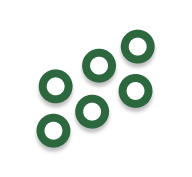
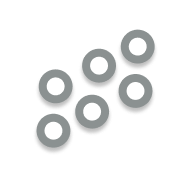
change ui color

diff --git a/components/Header.tsx b/components/Header.tsx
@@ -31,45 +31,37 @@ const Header = () => {
   }, [actualScroll, scrolling])
     
   return <header>
-            <div style={{ boxShadow: scrolling ?' 0px 8px 16px -12px #005200' : '', transition: 'all 0.5s ease-in-out'}}  className={styles.HeaderWrapper}>
+            <div style={{ boxShadow: scrolling ?' 0px 8px 16px -12px #364a5a' : '', transition: 'all 0.5s ease-in-out'}}  className={styles.HeaderWrapper}>
                 <div className={styles.containerLogo}>
                     <div className={styles.logoHeader}>
                         <Link href='/'>
                             <a>
-                            <Image src="/img/logoBodesa.svg" objectFit="contain" layout="fill" alt="logo"/>  
+                            <Image src="/img/logo_bodesa.png" objectFit="contain" layout="fill" alt="logo"/>  
                             </a>
                             
                         </Link>
                     </div> 
-                    <div className={styles.contactItem}>
-                        <div className={styles.IconCont}>
-                            <Image src="/img/cel.svg" objectFit='contain' layout='fill' alt="cel"/>
+                    <nav className={styles.navigate}>
+                        <div className={styles.itemNav}>
+                            <Link href='/' >Inicio</Link>
                         </div>
-                        <div className={styles.txtItem}>
-                            <Link href='/contactanos' >
-                                <p className={styles.txtCont}>Contáctanos</p>
-                            </Link>
+                        <div className={styles.itemNav}>
+                            <p onClick={()=>setSection(1)}>Nuestro impacto</p>
                         </div>
-                    </div> 
+                        <div className={styles.itemNav}>
+                            <p onClick={()=>setSection(2)}>Nuestras marcas</p>
+                        </div>
+                        <div className={styles.itemNav}>
+                            <Link href='/blog'>Blog</Link>
+                        </div>
+                        <div className={styles.itemNav}>
+                            <Link href='/prensa'>Prensa</Link>
+                        </div>
+                    </nav>
+                    
                 </div>
                 
-                <nav className={styles.navigate}>
-                    <div className={styles.itemNav}>
-                        <Link href='/' >Inicio</Link>
-                    </div>
-                    <div className={styles.itemNav}>
-                        <p onClick={()=>setSection(1)}>Nuestro impacto</p>
-                    </div>
-                    <div className={styles.itemNav}>
-                        <p onClick={()=>setSection(2)}>Nuestras marcas</p>
-                    </div>
-                    <div className={styles.itemNav}>
-                        <Link href='/blog'>Blog</Link>
-                    </div>
-                    <div className={styles.itemNav}>
-                        <Link href='/prensa'>Prensa</Link>
-                    </div>
-                </nav>
+               
             </div>
         </header>
 }

diff --git a/modules/Footer.tsx b/modules/Footer.tsx
@@ -6,11 +6,18 @@ const Footer = () => {
   return (
     <div className={styles.wrapperFooter}>
         <div className={styles.columnFooter}>
+            <h3 className={styles.titleSection}>Empresa</h3>
+            <p className={styles.txtFooter}>¿Quiénes somos?</p>
+            <p className={styles.txtFooter}>Nuestra Historia</p>
+            <p className={styles.txtFooter}>Principios y valores</p>
+            <p className={styles.txtFooter}>Unidades de negocio</p>
+            <p className={styles.txtFooter}>¿Quieres ser Proveedor?</p>
+            <p className={styles.txtFooter}>Prensa</p>
+        </div>
+        <div className={styles.columnFooter}>
             <h3 className={styles.titleSection}>Nuestro impacto</h3>
             <p className={styles.txtFooter}>Impacto en la comunidad</p>
             <p className={styles.txtFooter}>Sustentabilidad ambiental</p>
-            <p className={styles.txtFooter}>Prensa</p>
-            <p className={styles.txtFooter}>Integridad corporativa</p>
         </div>
         <div className={styles.columnFooter}>
             <h3 className={styles.titleSection}>Contacto</h3>
@@ -19,7 +26,7 @@ const Footer = () => {
                     <Image src="/img/mail.svg" objectFit='contain' layout='fill' alt="mail"/>
                 </div>
                 <div className={styles.txtItem}>
-                    <p className={styles.txtFooter}>info@bodesasapi.com</p>
+                    <p className={styles.txtFooter}>contactoenlinea@bodesa.com.mx</p>
                 </div>
             </div>
             <div className={styles.contactItem}>
@@ -27,7 +34,7 @@ const Footer = () => {
                     <Image src="/img/cel.svg" objectFit='contain' layout='fill' alt="cel"/>
                 </div>
                 <div className={styles.txtItem}>
-                    <p className={styles.txtFooter}>+52 55 5555 5555</p>
+                    <p className={styles.txtFooter}>+52 312 316 5300</p>
                 </div>
             </div>
             <div className={styles.contactItem}>
@@ -43,7 +50,7 @@ const Footer = () => {
         </div>
         <div className={styles.columnFooter}>
             <div className={styles.logoBodesa}>
-               <Image src="/img/LogoBodesaW.svg" objectFit='contain' layout='fill' alt="logo-footer"/> 
+               <Image src="/img/logo_bodesa.png" objectFit='contain' layout='fill' alt="logo-footer"/> 
             </div>
            <div className={styles.logos}>
                <div className={styles.logoFooter}>

diff --git a/styles/Footer.module.css b/styles/Footer.module.css
@@ -2,7 +2,7 @@
     display: flex;
     height: 50vh;
     width: 100%;
-    background-color: #DADDDD;
+    background-color: #364a5a;
     justify-content: space-around;
     padding: 1%;
 }
@@ -16,7 +16,7 @@
     align-items: center;
 }
 .titleSection{
-    color: #404545;
+    color: #ffffff;
     width: 100%;
     margin-bottom: 18px;
 }
@@ -27,11 +27,11 @@
 }
 .logos{
     width: 100%;
-    height: 70%;
+    height: 40%;
     position: relative;
     display: flex;
-    flex-flow: row wrap;
-    justify-content: center;
+    flex-flow: row nowrap;
+    justify-content: space-around;
     align-items: center;
 }
 .logoFooter{
@@ -42,7 +42,7 @@
 .txtFooter{
     text-align: left;
     width: 100%;
-    color: #404545;
+    color: #ffffff;
 }
 .contactItem{
     display: flex;
@@ -80,7 +80,7 @@
 .privacidad{
     width: 100%;
     height: 40px;
-    color: #404545;
+    color: #ffffff;
     text-align: center;
     margin-top: 24px;
 }
@@ -93,7 +93,7 @@
     }
     .columnFooter{
         width: 100%;
-        height: 30%;
+        height: 25%;
         justify-content: center;
         align-items: center;
     }

diff --git a/styles/globals.css b/styles/globals.css
@@ -15,7 +15,7 @@ body {
   font-family: 'Inter', sans-serif;
   line-height: 1.5;
   background-color: #f5f5f5;
-  color:#404545;
+  color:#364a5a;
 }
 img {
   max-width: 100%;
@@ -37,18 +37,18 @@ img {
 }
  a{
    text-decoration: none;
-   color:#404545;
+   color:#364a5a;
    font-size: calc(0.75rem + ((1vw - 3.2px) * 1));
  }
  p{
   font-size: calc(0.75rem + ((1vw - 3.2px) * 1));
-  color:#404545;
+  color:#364a5a;
   margin-block-start: 0.3em;
   margin-block-end: 0.3em;
 }
 span{
   font-size: calc(0.75rem + ((1vw - 3.2px) * 1));
-  color:#2D673E;
+  color:#364a5a;
   font-weight: bold;
 }
 h1{
@@ -73,16 +73,16 @@ label{
 }
 select, textarea{
   background-color: transparent;
-  border: 2px solid #1D4329;
-  color: #1D4329;
+  border: 2px solid #364a5a;
+  color: #364a5a;
   margin-bottom: 24px;
   font-size: calc(0.75rem + ((1vw - 3.2px) * 1));
   padding: 4px;
 }
 input{
   background-color: transparent;
-  border: 2px solid #1D4329;
-  color: #1D4329;
+  border: 2px solid #364a5a;
+  color: #364a5a;
   font-size: calc(0.75rem + ((1vw - 3.2px) * 1));
   padding: 4px;
   margin-bottom: 12px;

diff --git a/components/OptionMotive.tsx b/components/OptionMotive.tsx
@@ -4,7 +4,7 @@ import styles from '../styles/OptionMotive.module.css'
 
 const OptionMotive = ({txt, iconB, iconBL, iconA, active, callback, type}: any) => {
   return (
-    <div className={styles.wrapperOption} style={{backgroundColor: active&&'#1D4329'}} onClick={()=>callback(type)}>
+    <div className={styles.wrapperOption} style={{backgroundColor: active&&'#364a5a'}} onClick={()=>callback(type)}>
         <div className={styles.iconTxt}>
           <div className={styles.beforeIcon}>
             {
@@ -12,7 +12,7 @@ const OptionMotive = ({txt, iconB, iconBL, iconA, active, callback, type}: any) 
                         <Image src={iconB} alt='before-icon' objectFit='contain' layout='fill'/>
             }
           </div>
-          <p style={{color: active ?'#ffffff' : '#1D4329'}} className={styles.txt}>{txt}</p>  
+          <p style={{color: active ?'#ffffff' : '#364a5a'}} className={styles.txt}>{txt}</p>  
         </div>
         <div className={styles.afterIcon}>
             <Image src={iconA} alt='after-icon' objectFit='contain' layout='fill'/>

diff --git a/styles/Header.module.css b/styles/Header.module.css
@@ -6,9 +6,9 @@
     left: 0;
     z-index: 100;
     width: 100%;
-    background:  #F4F5F5;
+    background:  #364a5a;
     justify-content: space-between;
-    height:16%;
+    height:10%;
     
 }
 .navigate{
@@ -18,8 +18,7 @@
     width: 100%;
     justify-content: space-evenly;
     align-items: center;
-    background-color: #DADDDD;
-    
+    color: #ffffff;
     padding-left: 24px;
     padding-right: 24px;
 }
@@ -27,7 +26,7 @@
     display: flex;
     width: 100%;
     position: relative;
-    height: 60%;
+    height: 100%;
     padding: 14px;
     justify-content: center;
     align-items: center;
@@ -60,6 +59,15 @@
 
 .itemNav{
     cursor: pointer;
+    color: #ffffff;
+}
+.itemNav>p{
+    cursor: pointer;
+    color: #ffffff;
+}
+.itemNav>a{
+    cursor: pointer;
+    color: #ffffff;
 }
 @media(max-width: 768px){
     .HeaderWrapper{

diff --git a/modules/BlogFeed.tsx b/modules/BlogFeed.tsx
@@ -75,7 +75,7 @@ export const CardBlog = ({callBack, w, f, himg, img}: any)=>{
                     <p style={{ marginBottom: '32px'}}>Publicado por: <span>Juan García</span> | 14/01/2022</p>
                     <p>Lorem ipsum dolor sit amet, consectetur adipiscing elit. Placerat in nulla vestibulum pharetra. Velit egestas nec massa, imperdiet nunc tellus ridiculus placera...</p>
                     <Link href={`/post/name-blog`} passHref>
-                        <p style={{ marginTop: '32px', textAlign: 'right', width: '100%', color:'#2D673E', fontWeight: '900', cursor: 'pointer'}}>Leer más...</p>
+                        <p style={{ marginTop: '32px', textAlign: 'right', width: '100%', color:'#8b9191', fontWeight: '900', cursor: 'pointer'}}>Leer más...</p>
                     </Link>
                 </div>
            </div>

diff --git a/modules/Marcas.tsx b/modules/Marcas.tsx
@@ -35,10 +35,12 @@ let sliderRef = useRef<any>()
                     <Image src="/img/arrowleft.svg" objectFit='contain' layout='fill' alt="arrow-right"/>
                 </div>
                 <Carousel forwardRef={sliderRef}>
+                    <Brand img={'/img/logo_135_marina.png'}/>
                     <Brand img={'/img/logo-bodegon.png'}/>
                     <Brand img={'/img/logo-naveri.png'}/>
                     <Brand img={'/img/celerity-logo.png'}/>
                     <Brand img={'/img/logomxl.png'}/>
+                    <Brand img={'/img/logo_135_marina.png'}/>
                 </Carousel>
             </div>
          </div>

diff --git a/styles/BlogFeed.module.css b/styles/BlogFeed.module.css
@@ -62,7 +62,7 @@
   bottom: 0;
   width: 50%;
   height: 20%;
-  background-color: #005200;
+  background-color: #364a5a;
   color: white;
   display: flex;
   align-items: center;
@@ -80,7 +80,7 @@
     top: 35%;
     left: 1.5%;
     border-radius: 20px;
-    box-shadow: 0px 25px 50px -12px #005200;
+    box-shadow: 0px 25px 50px -12px #364a5a;
     cursor: pointer;
     z-index: 10;
 }
@@ -92,7 +92,7 @@
     top: 35%;
     right: 1.7%;
     border-radius: 20px;
-    box-shadow: 0px 25px 50px -12px #005200;
+    box-shadow: 0px 25px 50px -12px #364a5a;
     transform: rotate(180deg);
     cursor: pointer;
     z-index: 10;

diff --git a/styles/Marcas.module.css b/styles/Marcas.module.css
@@ -44,7 +44,7 @@
 }
 
 .snapper{
-    background-color: #D8EEDF;
+    background-color: #364a5a;
     opacity: .5;
     width: 90%;
     height: 45%;
@@ -79,7 +79,7 @@
     top: 20%;
     left: 3%;
     border-radius: 20px;
-    box-shadow: 0px 25px 50px -12px #005200;
+    box-shadow: 0px 25px 50px -12px #364a5a;
     cursor: pointer;
     z-index: 10;
 }
@@ -91,7 +91,7 @@
     top: 20%;
     right: 3.2%;
     border-radius: 20px;
-    box-shadow: 0px 25px 50px -12px #005200;
+    box-shadow: 0px 25px 50px -12px #364a5a;
     transform: rotate(180deg);
     cursor: pointer;
     z-index: 10;

diff --git a/modules/Galeria.tsx b/modules/Galeria.tsx
@@ -14,7 +14,7 @@ const Galeria = () => {
 
   return (
     <div className={styles.wrapperGaleria}>
-        <h1 style={{color:'#1D4329', paddingLeft: '5%', width:'100%', marginTop: '4%'}}>Galería</h1>
+        <h1 style={{color:'#364a5a', paddingLeft: '5%', width:'100%', marginTop: '4%'}}>Galería</h1>
         <div className={styles.containerGaleria}>
             <div className={styles.containerImg} style={{gridArea:'small'}}>
                 <Image  src="/img/galeria.jpg" objectFit='cover' layout='fill' alt='gal1'/>

diff --git a/components/Texts.tsx b/components/Texts.tsx
@@ -1,7 +1,7 @@
 export const H1 = ({txt, themed}:any) =>{
-    return <h1 style={{color: themed ? '#005200' : '#404545'}}>{txt}</h1>
+    return <h1 style={{color: themed ? '#364a5a' : '#364a5a'}}>{txt}</h1>
 }
 
 export const P = ({txt, themed}:any) =>{
-    return <p style={{color: themed ? '#005200' : '#404545'}}>{txt}</p>
+    return <p style={{color: themed ? '#364a5a' : '#364a5a'}}>{txt}</p>
 }
